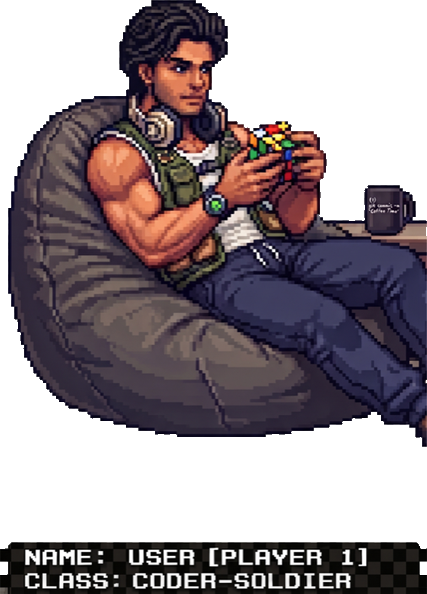
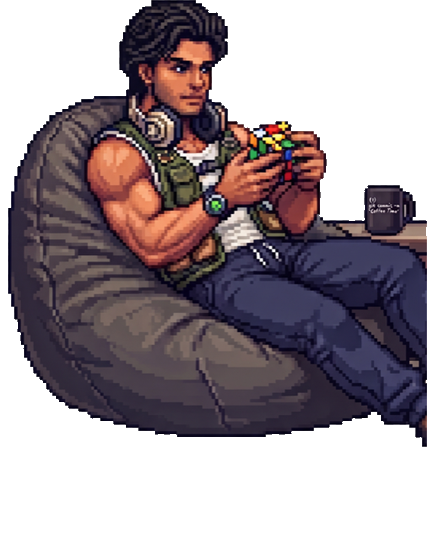
Remove nameplate strip from bean bag art and switch to free-flow layout

diff --git a/README.md b/README.md
@@ -5,23 +5,13 @@
     width="100%"
   />
 </p>
-<div align="center">
-  <table border="0" cellpadding="0" cellspacing="0">
-    <tr>
-      <td valign="middle" align="center">
-        <img src="./assets/pixel-player-beanbag.png" width="130" alt="Player 1 — Coder Soldier" />
-        &nbsp;&nbsp;&nbsp;
-      </td>
-      <td valign="middle" align="center">
-        <img src="./assets/tagline.svg" width="500" alt="Building Solutions • Exploring AI × Security" />
-      </td>
-      <td valign="middle" align="center">
-        &nbsp;&nbsp;&nbsp;
-        <img src="./assets/pixel-player-coffee.png" width="130" alt="Coffee Time — Coder Soldier" />
-      </td>
-    </tr>
-  </table>
-</div>
+<p align="center">
+  <img src="./assets/pixel-player-beanbag.png" width="130" align="middle" alt="Player 1 — Coder Soldier" />
+  &nbsp;&nbsp;&nbsp;
+  <img src="./assets/tagline.svg" width="500" align="middle" alt="Building Solutions • Exploring AI × Security" />
+  &nbsp;&nbsp;&nbsp;
+  <img src="./assets/pixel-player-coffee.png" width="130" align="middle" alt="Coffee Time — Coder Soldier" />
+</p>
 
 <div align="center">
 
